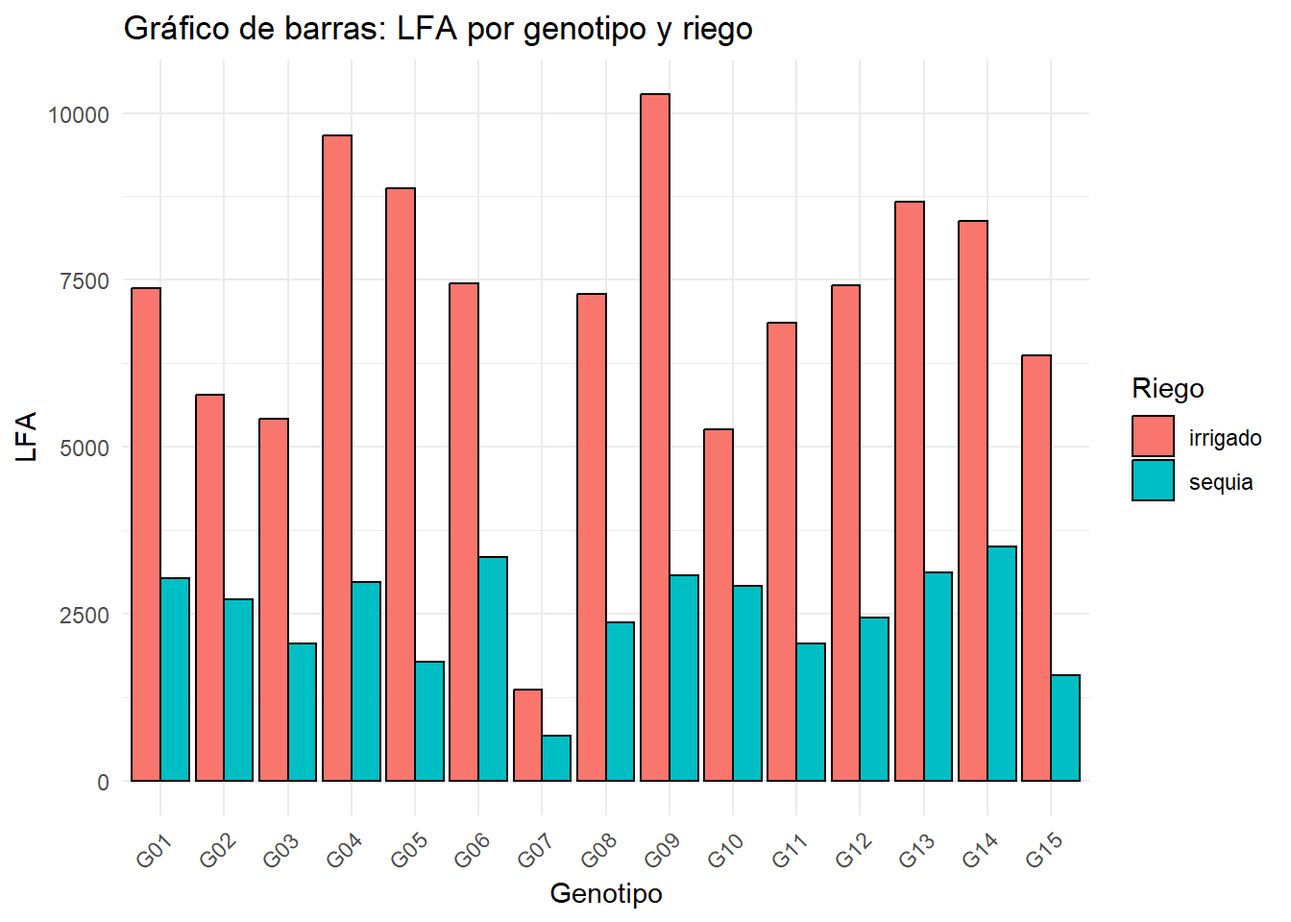
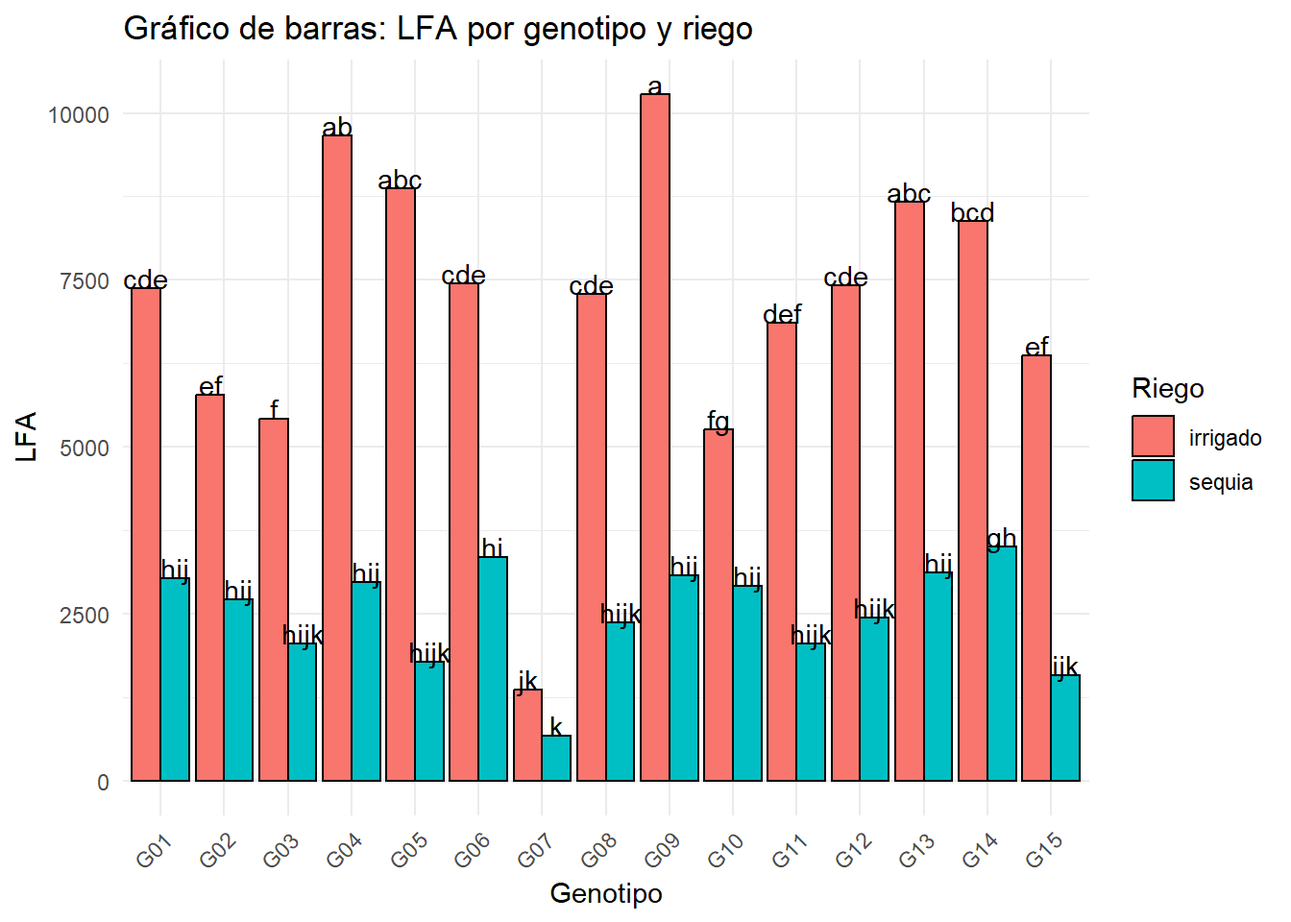
emmean

diff --git a/index.html b/index.html
@@ -129,7 +129,11 @@ window.Quarto = {
   <li><a href="#modelo-lineal-hi" id="toc-modelo-lineal-hi" class="nav-link" data-scroll-target="#modelo-lineal-hi"><span class="header-section-number">4.3</span> Modelo lineal: hi</a></li>
   <li><a href="#modelo-lineal-mixto-para-lfa" id="toc-modelo-lineal-mixto-para-lfa" class="nav-link" data-scroll-target="#modelo-lineal-mixto-para-lfa"><span class="header-section-number">4.4</span> Modelo lineal mixto para lfa</a></li>
   </ul></li>
-  <li><a href="#comparación-de-medias" id="toc-comparación-de-medias" class="nav-link" data-scroll-target="#comparación-de-medias"><span class="header-section-number">5</span> Comparación de medias</a></li>
+  <li><a href="#agricolae-comparación-de-medias" id="toc-agricolae-comparación-de-medias" class="nav-link" data-scroll-target="#agricolae-comparación-de-medias"><span class="header-section-number">5</span> Agricolae Comparación de medias</a></li>
+  <li><a href="#enmeans-comparación-de-medias" id="toc-enmeans-comparación-de-medias" class="nav-link" data-scroll-target="#enmeans-comparación-de-medias"><span class="header-section-number">6</span> enmeans: Comparación de medias</a>
+  <ul class="collapse">
+  <li><a href="#gráfico" id="toc-gráfico" class="nav-link" data-scroll-target="#gráfico"><span class="header-section-number">6.1</span> gráfico</a></li>
+  </ul></li>
   </ul>
 </nav>
 </div>
@@ -736,8 +740,8 @@ window.Quarto = {
 </div>
 </section>
 </section>
-<section id="comparación-de-medias" class="level1" data-number="5">
-<h1 data-number="5"><span class="header-section-number">5</span> Comparación de medias</h1>
+<section id="agricolae-comparación-de-medias" class="level1" data-number="5">
+<h1 data-number="5"><span class="header-section-number">5</span> Agricolae Comparación de medias</h1>
 <div class="cell" data-layout-align="center">
 <div class="sourceCode cell-code" id="cb15"><pre class="sourceCode r code-with-copy"><code class="sourceCode r"><span id="cb15-1"><a href="#cb15-1" aria-hidden="true" tabindex="-1"></a></span>
 <span id="cb15-2"><a href="#cb15-2" aria-hidden="true" tabindex="-1"></a>modelo <span class="ot">&lt;-</span> <span class="fu">lm</span>(<span class="at">formula =</span> lfa <span class="sc">~</span> bloque <span class="sc">+</span> riego <span class="sc">+</span> geno <span class="sc">+</span> riego<span class="sc">*</span>geno</span>
@@ -1036,13 +1040,15 @@ window.Quarto = {
 <span id="cb16-154"><a href="#cb16-154" aria-hidden="true" tabindex="-1"></a><span class="do">##  $ groups: chr  "a" "ab" "abc" "abc" ...</span></span></code><button title="Copy to Clipboard" class="code-copy-button"><i class="bi"></i></button></pre></div>
 </div>
 <div class="cell" data-layout-align="center">
-<div class="sourceCode cell-code" id="cb17"><pre class="sourceCode r code-with-copy"><code class="sourceCode r"><span id="cb17-1"><a href="#cb17-1" aria-hidden="true" tabindex="-1"></a></span>
-<span id="cb17-2"><a href="#cb17-2" aria-hidden="true" tabindex="-1"></a><span class="fu">ggplot</span>(grupos, <span class="fu">aes</span>(<span class="at">x =</span> geno, <span class="at">y =</span> lfa, <span class="at">fill =</span> riego)) <span class="sc">+</span></span>
-<span id="cb17-3"><a href="#cb17-3" aria-hidden="true" tabindex="-1"></a>  <span class="fu">geom_bar</span>(<span class="at">stat =</span> <span class="st">"identity"</span>, <span class="at">position =</span> <span class="st">"dodge"</span>, <span class="at">color =</span> <span class="st">"black"</span>) <span class="sc">+</span></span>
-<span id="cb17-4"><a href="#cb17-4" aria-hidden="true" tabindex="-1"></a>  <span class="fu">labs</span>(<span class="at">x =</span> <span class="st">"Genotipo"</span>, <span class="at">y =</span> <span class="st">"LFA"</span>, <span class="at">fill =</span> <span class="st">"Riego"</span>) <span class="sc">+</span></span>
-<span id="cb17-5"><a href="#cb17-5" aria-hidden="true" tabindex="-1"></a>  <span class="fu">theme_minimal</span>() <span class="sc">+</span></span>
-<span id="cb17-6"><a href="#cb17-6" aria-hidden="true" tabindex="-1"></a>  <span class="fu">theme</span>(<span class="at">axis.text.x =</span> <span class="fu">element_text</span>(<span class="at">angle =</span> <span class="dv">45</span>, <span class="at">hjust =</span> <span class="dv">1</span>)) <span class="sc">+</span></span>
-<span id="cb17-7"><a href="#cb17-7" aria-hidden="true" tabindex="-1"></a>  <span class="fu">ggtitle</span>(<span class="st">"Gráfico de barras: LFA por genotipo y riego"</span>)</span></code><button title="Copy to Clipboard" class="code-copy-button"><i class="bi"></i></button></pre></div>
+<div class="sourceCode cell-code" id="cb17"><pre class="sourceCode r code-with-copy"><code class="sourceCode r"><span id="cb17-1"><a href="#cb17-1" aria-hidden="true" tabindex="-1"></a><span class="fu">ggplot</span>(grupos, <span class="fu">aes</span>(<span class="at">x =</span> geno, <span class="at">y =</span> lfa, <span class="at">fill =</span> riego)) <span class="sc">+</span></span>
+<span id="cb17-2"><a href="#cb17-2" aria-hidden="true" tabindex="-1"></a>  <span class="fu">geom_bar</span>(<span class="at">stat =</span> <span class="st">"identity"</span>, <span class="at">position =</span> <span class="st">"dodge"</span>, <span class="at">color =</span> <span class="st">"black"</span>) <span class="sc">+</span></span>
+<span id="cb17-3"><a href="#cb17-3" aria-hidden="true" tabindex="-1"></a>  <span class="fu">labs</span>(<span class="at">x =</span> <span class="st">"Genotipo"</span>, <span class="at">y =</span> <span class="st">"LFA"</span>, <span class="at">fill =</span> <span class="st">"Riego"</span>) <span class="sc">+</span></span>
+<span id="cb17-4"><a href="#cb17-4" aria-hidden="true" tabindex="-1"></a>  <span class="fu">theme_minimal</span>() <span class="sc">+</span></span>
+<span id="cb17-5"><a href="#cb17-5" aria-hidden="true" tabindex="-1"></a>  <span class="fu">theme</span>(<span class="at">axis.text.x =</span> <span class="fu">element_text</span>(<span class="at">angle =</span> <span class="dv">45</span>, <span class="at">hjust =</span> <span class="dv">1</span>)) <span class="sc">+</span></span>
+<span id="cb17-6"><a href="#cb17-6" aria-hidden="true" tabindex="-1"></a>  <span class="fu">ggtitle</span>(<span class="st">"Gráfico de barras: LFA por genotipo y riego"</span>) <span class="sc">+</span></span>
+<span id="cb17-7"><a href="#cb17-7" aria-hidden="true" tabindex="-1"></a>  <span class="fu">geom_text</span>(<span class="fu">aes</span>(<span class="at">label =</span> groups, <span class="at">y =</span> lfa <span class="sc">+</span> <span class="fl">0.05</span>), </span>
+<span id="cb17-8"><a href="#cb17-8" aria-hidden="true" tabindex="-1"></a>            <span class="at">position =</span> <span class="fu">position_dodge</span>(<span class="at">width =</span> <span class="fl">0.9</span>), </span>
+<span id="cb17-9"><a href="#cb17-9" aria-hidden="true" tabindex="-1"></a>            <span class="at">vjust =</span> <span class="dv">0</span>)</span></code><button title="Copy to Clipboard" class="code-copy-button"><i class="bi"></i></button></pre></div>
 <div class="cell-output-display">
 <div class="quarto-figure quarto-figure-center">
 <figure class="figure">
@@ -1051,6 +1057,229 @@ window.Quarto = {
 </div>
 </div>
 </div>
+</section>
+<section id="enmeans-comparación-de-medias" class="level1" data-number="6">
+<h1 data-number="6"><span class="header-section-number">6</span> enmeans: Comparación de medias</h1>
+<div class="cell" data-layout-align="center">
+<div class="sourceCode cell-code" id="cb18"><pre class="sourceCode r code-with-copy"><code class="sourceCode r"><span id="cb18-1"><a href="#cb18-1" aria-hidden="true" tabindex="-1"></a>modelo <span class="ot">&lt;-</span> lme4<span class="sc">::</span><span class="fu">lmer</span>(hi <span class="sc">~</span> (<span class="dv">1</span><span class="sc">|</span>bloque) <span class="sc">+</span> geno<span class="sc">*</span>riego</span>
+<span id="cb18-2"><a href="#cb18-2" aria-hidden="true" tabindex="-1"></a>                     , <span class="at">data =</span> fb)</span>
+<span id="cb18-3"><a href="#cb18-3" aria-hidden="true" tabindex="-1"></a><span class="fu">anova</span>(modelo)</span>
+<span id="cb18-4"><a href="#cb18-4" aria-hidden="true" tabindex="-1"></a><span class="do">## Analysis of Variance Table</span></span>
+<span id="cb18-5"><a href="#cb18-5" aria-hidden="true" tabindex="-1"></a><span class="do">##            npar  Sum Sq  Mean Sq F value</span></span>
+<span id="cb18-6"><a href="#cb18-6" aria-hidden="true" tabindex="-1"></a><span class="do">## geno         14 2.70077 0.192912 59.9161</span></span>
+<span id="cb18-7"><a href="#cb18-7" aria-hidden="true" tabindex="-1"></a><span class="do">## riego         1 0.12176 0.121758 37.8165</span></span>
+<span id="cb18-8"><a href="#cb18-8" aria-hidden="true" tabindex="-1"></a><span class="do">## geno:riego   14 0.07762 0.005544  1.7219</span></span>
+<span id="cb18-9"><a href="#cb18-9" aria-hidden="true" tabindex="-1"></a><span class="fu">source</span>(<span class="st">'https://inkaverse.com/setup.r'</span>)</span>
+<span id="cb18-10"><a href="#cb18-10" aria-hidden="true" tabindex="-1"></a></span>
+<span id="cb18-11"><a href="#cb18-11" aria-hidden="true" tabindex="-1"></a></span>
+<span id="cb18-12"><a href="#cb18-12" aria-hidden="true" tabindex="-1"></a><span class="fu">library</span>(emmeans)</span>
+<span id="cb18-13"><a href="#cb18-13" aria-hidden="true" tabindex="-1"></a><span class="fu">library</span>(multcomp)</span>
+<span id="cb18-14"><a href="#cb18-14" aria-hidden="true" tabindex="-1"></a><span class="fu">library</span>(multcompView)</span>
+<span id="cb18-15"><a href="#cb18-15" aria-hidden="true" tabindex="-1"></a><span class="fu">library</span>(lme4)</span>
+<span id="cb18-16"><a href="#cb18-16" aria-hidden="true" tabindex="-1"></a><span class="fu">library</span>(lmerTest)</span>
+<span id="cb18-17"><a href="#cb18-17" aria-hidden="true" tabindex="-1"></a></span>
+<span id="cb18-18"><a href="#cb18-18" aria-hidden="true" tabindex="-1"></a></span>
+<span id="cb18-19"><a href="#cb18-19" aria-hidden="true" tabindex="-1"></a></span>
+<span id="cb18-20"><a href="#cb18-20" aria-hidden="true" tabindex="-1"></a>cm1 <span class="ot">&lt;-</span> <span class="fu">emmeans</span>(modelo, <span class="sc">~</span> geno <span class="sc">|</span> riego) <span class="sc">%&gt;%</span> </span>
+<span id="cb18-21"><a href="#cb18-21" aria-hidden="true" tabindex="-1"></a>  <span class="fu">cld</span>(<span class="at">Letters =</span> letters, <span class="at">reversed =</span> T)</span>
+<span id="cb18-22"><a href="#cb18-22" aria-hidden="true" tabindex="-1"></a>cm1</span>
+<span id="cb18-23"><a href="#cb18-23" aria-hidden="true" tabindex="-1"></a><span class="do">## riego = irrigado:</span></span>
+<span id="cb18-24"><a href="#cb18-24" aria-hidden="true" tabindex="-1"></a><span class="do">##  geno emmean     SE   df lower.CL upper.CL .group    </span></span>
+<span id="cb18-25"><a href="#cb18-25" aria-hidden="true" tabindex="-1"></a><span class="do">##  G07   0.749 0.0278 65.8   0.6938    0.805  a        </span></span>
+<span id="cb18-26"><a href="#cb18-26" aria-hidden="true" tabindex="-1"></a><span class="do">##  G15   0.680 0.0278 65.8   0.6248    0.736  ab       </span></span>
+<span id="cb18-27"><a href="#cb18-27" aria-hidden="true" tabindex="-1"></a><span class="do">##  G11   0.645 0.0278 65.8   0.5898    0.701  abc      </span></span>
+<span id="cb18-28"><a href="#cb18-28" aria-hidden="true" tabindex="-1"></a><span class="do">##  G03   0.625 0.0278 65.8   0.5695    0.681  abc      </span></span>
+<span id="cb18-29"><a href="#cb18-29" aria-hidden="true" tabindex="-1"></a><span class="do">##  G09   0.605 0.0278 65.8   0.5490    0.660   bcd     </span></span>
+<span id="cb18-30"><a href="#cb18-30" aria-hidden="true" tabindex="-1"></a><span class="do">##  G05   0.580 0.0278 65.8   0.5249    0.636   bcde    </span></span>
+<span id="cb18-31"><a href="#cb18-31" aria-hidden="true" tabindex="-1"></a><span class="do">##  G10   0.555 0.0278 65.8   0.4993    0.610    cdef   </span></span>
+<span id="cb18-32"><a href="#cb18-32" aria-hidden="true" tabindex="-1"></a><span class="do">##  G04   0.546 0.0278 65.8   0.4903    0.601    cdefg  </span></span>
+<span id="cb18-33"><a href="#cb18-33" aria-hidden="true" tabindex="-1"></a><span class="do">##  G12   0.498 0.0278 65.8   0.4427    0.554     defg  </span></span>
+<span id="cb18-34"><a href="#cb18-34" aria-hidden="true" tabindex="-1"></a><span class="do">##  G01   0.472 0.0278 65.8   0.4168    0.528      efgh </span></span>
+<span id="cb18-35"><a href="#cb18-35" aria-hidden="true" tabindex="-1"></a><span class="do">##  G02   0.455 0.0278 65.8   0.3995    0.511       fgh </span></span>
+<span id="cb18-36"><a href="#cb18-36" aria-hidden="true" tabindex="-1"></a><span class="do">##  G14   0.436 0.0278 65.8   0.3807    0.492       fgh </span></span>
+<span id="cb18-37"><a href="#cb18-37" aria-hidden="true" tabindex="-1"></a><span class="do">##  G08   0.429 0.0278 65.8   0.3735    0.485        gh </span></span>
+<span id="cb18-38"><a href="#cb18-38" aria-hidden="true" tabindex="-1"></a><span class="do">##  G13   0.350 0.0278 65.8   0.2946    0.406         h </span></span>
+<span id="cb18-39"><a href="#cb18-39" aria-hidden="true" tabindex="-1"></a><span class="do">##  G06   0.221 0.0278 65.8   0.1653    0.276          i</span></span>
+<span id="cb18-40"><a href="#cb18-40" aria-hidden="true" tabindex="-1"></a><span class="do">## </span></span>
+<span id="cb18-41"><a href="#cb18-41" aria-hidden="true" tabindex="-1"></a><span class="do">## riego = sequia:</span></span>
+<span id="cb18-42"><a href="#cb18-42" aria-hidden="true" tabindex="-1"></a><span class="do">##  geno emmean     SE   df lower.CL upper.CL .group    </span></span>
+<span id="cb18-43"><a href="#cb18-43" aria-hidden="true" tabindex="-1"></a><span class="do">##  G07   0.689 0.0278 65.8   0.6335    0.745  a        </span></span>
+<span id="cb18-44"><a href="#cb18-44" aria-hidden="true" tabindex="-1"></a><span class="do">##  G11   0.665 0.0278 65.8   0.6097    0.721  a        </span></span>
+<span id="cb18-45"><a href="#cb18-45" aria-hidden="true" tabindex="-1"></a><span class="do">##  G03   0.593 0.0278 65.8   0.5371    0.648  ab       </span></span>
+<span id="cb18-46"><a href="#cb18-46" aria-hidden="true" tabindex="-1"></a><span class="do">##  G15   0.590 0.0278 65.8   0.5340    0.645  ab       </span></span>
+<span id="cb18-47"><a href="#cb18-47" aria-hidden="true" tabindex="-1"></a><span class="do">##  G10   0.582 0.0278 65.8   0.5261    0.637  ab       </span></span>
+<span id="cb18-48"><a href="#cb18-48" aria-hidden="true" tabindex="-1"></a><span class="do">##  G09   0.511 0.0278 65.8   0.4556    0.567   bc      </span></span>
+<span id="cb18-49"><a href="#cb18-49" aria-hidden="true" tabindex="-1"></a><span class="do">##  G04   0.486 0.0278 65.8   0.4302    0.541   bc      </span></span>
+<span id="cb18-50"><a href="#cb18-50" aria-hidden="true" tabindex="-1"></a><span class="do">##  G05   0.446 0.0278 65.8   0.3908    0.502    cd     </span></span>
+<span id="cb18-51"><a href="#cb18-51" aria-hidden="true" tabindex="-1"></a><span class="do">##  G01   0.441 0.0278 65.8   0.3852    0.496    cd     </span></span>
+<span id="cb18-52"><a href="#cb18-52" aria-hidden="true" tabindex="-1"></a><span class="do">##  G02   0.402 0.0278 65.8   0.3467    0.458    cde    </span></span>
+<span id="cb18-53"><a href="#cb18-53" aria-hidden="true" tabindex="-1"></a><span class="do">##  G12   0.402 0.0278 65.8   0.3467    0.458    cde    </span></span>
+<span id="cb18-54"><a href="#cb18-54" aria-hidden="true" tabindex="-1"></a><span class="do">##  G14   0.389 0.0278 65.8   0.3335    0.445    cde    </span></span>
+<span id="cb18-55"><a href="#cb18-55" aria-hidden="true" tabindex="-1"></a><span class="do">##  G13   0.346 0.0278 65.8   0.2904    0.402     de    </span></span>
+<span id="cb18-56"><a href="#cb18-56" aria-hidden="true" tabindex="-1"></a><span class="do">##  G08   0.315 0.0278 65.8   0.2598    0.371      e    </span></span>
+<span id="cb18-57"><a href="#cb18-57" aria-hidden="true" tabindex="-1"></a><span class="do">##  G06   0.136 0.0278 65.8   0.0807    0.192       f   </span></span>
+<span id="cb18-58"><a href="#cb18-58" aria-hidden="true" tabindex="-1"></a><span class="do">## </span></span>
+<span id="cb18-59"><a href="#cb18-59" aria-hidden="true" tabindex="-1"></a><span class="do">## Degrees-of-freedom method: kenward-roger </span></span>
+<span id="cb18-60"><a href="#cb18-60" aria-hidden="true" tabindex="-1"></a><span class="do">## Confidence level used: 0.95 </span></span>
+<span id="cb18-61"><a href="#cb18-61" aria-hidden="true" tabindex="-1"></a><span class="do">## P value adjustment: tukey method for comparing a family of 15 estimates </span></span>
+<span id="cb18-62"><a href="#cb18-62" aria-hidden="true" tabindex="-1"></a><span class="do">## significance level used: alpha = 0.05 </span></span>
+<span id="cb18-63"><a href="#cb18-63" aria-hidden="true" tabindex="-1"></a><span class="do">## </span><span class="al">NOTE</span><span class="do">: If two or more means share the same grouping symbol,</span></span>
+<span id="cb18-64"><a href="#cb18-64" aria-hidden="true" tabindex="-1"></a><span class="do">##       then we cannot show them to be different.</span></span>
+<span id="cb18-65"><a href="#cb18-65" aria-hidden="true" tabindex="-1"></a><span class="do">##       But we also did not show them to be the same.</span></span>
+<span id="cb18-66"><a href="#cb18-66" aria-hidden="true" tabindex="-1"></a></span>
+<span id="cb18-67"><a href="#cb18-67" aria-hidden="true" tabindex="-1"></a></span>
+<span id="cb18-68"><a href="#cb18-68" aria-hidden="true" tabindex="-1"></a>cm2 <span class="ot">&lt;-</span> <span class="fu">emmeans</span>(modelo, <span class="sc">~</span> riego <span class="sc">|</span> geno) <span class="sc">%&gt;%</span> </span>
+<span id="cb18-69"><a href="#cb18-69" aria-hidden="true" tabindex="-1"></a>  <span class="fu">cld</span>(<span class="at">Letters =</span> letters, <span class="at">reversed =</span> T)</span>
+<span id="cb18-70"><a href="#cb18-70" aria-hidden="true" tabindex="-1"></a>cm2</span>
+<span id="cb18-71"><a href="#cb18-71" aria-hidden="true" tabindex="-1"></a><span class="do">## geno = G01:</span></span>
+<span id="cb18-72"><a href="#cb18-72" aria-hidden="true" tabindex="-1"></a><span class="do">##  riego    emmean     SE   df lower.CL upper.CL .group</span></span>
+<span id="cb18-73"><a href="#cb18-73" aria-hidden="true" tabindex="-1"></a><span class="do">##  irrigado  0.472 0.0278 65.8   0.4168    0.528  a    </span></span>
+<span id="cb18-74"><a href="#cb18-74" aria-hidden="true" tabindex="-1"></a><span class="do">##  sequia    0.441 0.0278 65.8   0.3852    0.496  a    </span></span>
+<span id="cb18-75"><a href="#cb18-75" aria-hidden="true" tabindex="-1"></a><span class="do">## </span></span>
+<span id="cb18-76"><a href="#cb18-76" aria-hidden="true" tabindex="-1"></a><span class="do">## geno = G02:</span></span>
+<span id="cb18-77"><a href="#cb18-77" aria-hidden="true" tabindex="-1"></a><span class="do">##  riego    emmean     SE   df lower.CL upper.CL .group</span></span>
+<span id="cb18-78"><a href="#cb18-78" aria-hidden="true" tabindex="-1"></a><span class="do">##  irrigado  0.455 0.0278 65.8   0.3995    0.511  a    </span></span>
+<span id="cb18-79"><a href="#cb18-79" aria-hidden="true" tabindex="-1"></a><span class="do">##  sequia    0.402 0.0278 65.8   0.3467    0.458  a    </span></span>
+<span id="cb18-80"><a href="#cb18-80" aria-hidden="true" tabindex="-1"></a><span class="do">## </span></span>
+<span id="cb18-81"><a href="#cb18-81" aria-hidden="true" tabindex="-1"></a><span class="do">## geno = G03:</span></span>
+<span id="cb18-82"><a href="#cb18-82" aria-hidden="true" tabindex="-1"></a><span class="do">##  riego    emmean     SE   df lower.CL upper.CL .group</span></span>
+<span id="cb18-83"><a href="#cb18-83" aria-hidden="true" tabindex="-1"></a><span class="do">##  irrigado  0.625 0.0278 65.8   0.5695    0.681  a    </span></span>
+<span id="cb18-84"><a href="#cb18-84" aria-hidden="true" tabindex="-1"></a><span class="do">##  sequia    0.593 0.0278 65.8   0.5371    0.648  a    </span></span>
+<span id="cb18-85"><a href="#cb18-85" aria-hidden="true" tabindex="-1"></a><span class="do">## </span></span>
+<span id="cb18-86"><a href="#cb18-86" aria-hidden="true" tabindex="-1"></a><span class="do">## geno = G04:</span></span>
+<span id="cb18-87"><a href="#cb18-87" aria-hidden="true" tabindex="-1"></a><span class="do">##  riego    emmean     SE   df lower.CL upper.CL .group</span></span>
+<span id="cb18-88"><a href="#cb18-88" aria-hidden="true" tabindex="-1"></a><span class="do">##  irrigado  0.546 0.0278 65.8   0.4903    0.601  a    </span></span>
+<span id="cb18-89"><a href="#cb18-89" aria-hidden="true" tabindex="-1"></a><span class="do">##  sequia    0.486 0.0278 65.8   0.4302    0.541  a    </span></span>
+<span id="cb18-90"><a href="#cb18-90" aria-hidden="true" tabindex="-1"></a><span class="do">## </span></span>
+<span id="cb18-91"><a href="#cb18-91" aria-hidden="true" tabindex="-1"></a><span class="do">## geno = G05:</span></span>
+<span id="cb18-92"><a href="#cb18-92" aria-hidden="true" tabindex="-1"></a><span class="do">##  riego    emmean     SE   df lower.CL upper.CL .group</span></span>
+<span id="cb18-93"><a href="#cb18-93" aria-hidden="true" tabindex="-1"></a><span class="do">##  irrigado  0.580 0.0278 65.8   0.5249    0.636  a    </span></span>
+<span id="cb18-94"><a href="#cb18-94" aria-hidden="true" tabindex="-1"></a><span class="do">##  sequia    0.446 0.0278 65.8   0.3908    0.502   b   </span></span>
+<span id="cb18-95"><a href="#cb18-95" aria-hidden="true" tabindex="-1"></a><span class="do">## </span></span>
+<span id="cb18-96"><a href="#cb18-96" aria-hidden="true" tabindex="-1"></a><span class="do">## geno = G06:</span></span>
+<span id="cb18-97"><a href="#cb18-97" aria-hidden="true" tabindex="-1"></a><span class="do">##  riego    emmean     SE   df lower.CL upper.CL .group</span></span>
+<span id="cb18-98"><a href="#cb18-98" aria-hidden="true" tabindex="-1"></a><span class="do">##  irrigado  0.221 0.0278 65.8   0.1653    0.276  a    </span></span>
+<span id="cb18-99"><a href="#cb18-99" aria-hidden="true" tabindex="-1"></a><span class="do">##  sequia    0.136 0.0278 65.8   0.0807    0.192   b   </span></span>
+<span id="cb18-100"><a href="#cb18-100" aria-hidden="true" tabindex="-1"></a><span class="do">## </span></span>
+<span id="cb18-101"><a href="#cb18-101" aria-hidden="true" tabindex="-1"></a><span class="do">## geno = G07:</span></span>
+<span id="cb18-102"><a href="#cb18-102" aria-hidden="true" tabindex="-1"></a><span class="do">##  riego    emmean     SE   df lower.CL upper.CL .group</span></span>
+<span id="cb18-103"><a href="#cb18-103" aria-hidden="true" tabindex="-1"></a><span class="do">##  irrigado  0.749 0.0278 65.8   0.6938    0.805  a    </span></span>
+<span id="cb18-104"><a href="#cb18-104" aria-hidden="true" tabindex="-1"></a><span class="do">##  sequia    0.689 0.0278 65.8   0.6335    0.745  a    </span></span>
+<span id="cb18-105"><a href="#cb18-105" aria-hidden="true" tabindex="-1"></a><span class="do">## </span></span>
+<span id="cb18-106"><a href="#cb18-106" aria-hidden="true" tabindex="-1"></a><span class="do">## geno = G08:</span></span>
+<span id="cb18-107"><a href="#cb18-107" aria-hidden="true" tabindex="-1"></a><span class="do">##  riego    emmean     SE   df lower.CL upper.CL .group</span></span>
+<span id="cb18-108"><a href="#cb18-108" aria-hidden="true" tabindex="-1"></a><span class="do">##  irrigado  0.429 0.0278 65.8   0.3735    0.485  a    </span></span>
+<span id="cb18-109"><a href="#cb18-109" aria-hidden="true" tabindex="-1"></a><span class="do">##  sequia    0.315 0.0278 65.8   0.2598    0.371   b   </span></span>
+<span id="cb18-110"><a href="#cb18-110" aria-hidden="true" tabindex="-1"></a><span class="do">## </span></span>
+<span id="cb18-111"><a href="#cb18-111" aria-hidden="true" tabindex="-1"></a><span class="do">## geno = G09:</span></span>
+<span id="cb18-112"><a href="#cb18-112" aria-hidden="true" tabindex="-1"></a><span class="do">##  riego    emmean     SE   df lower.CL upper.CL .group</span></span>
+<span id="cb18-113"><a href="#cb18-113" aria-hidden="true" tabindex="-1"></a><span class="do">##  irrigado  0.605 0.0278 65.8   0.5490    0.660  a    </span></span>
+<span id="cb18-114"><a href="#cb18-114" aria-hidden="true" tabindex="-1"></a><span class="do">##  sequia    0.511 0.0278 65.8   0.4556    0.567   b   </span></span>
+<span id="cb18-115"><a href="#cb18-115" aria-hidden="true" tabindex="-1"></a><span class="do">## </span></span>
+<span id="cb18-116"><a href="#cb18-116" aria-hidden="true" tabindex="-1"></a><span class="do">## geno = G10:</span></span>
+<span id="cb18-117"><a href="#cb18-117" aria-hidden="true" tabindex="-1"></a><span class="do">##  riego    emmean     SE   df lower.CL upper.CL .group</span></span>
+<span id="cb18-118"><a href="#cb18-118" aria-hidden="true" tabindex="-1"></a><span class="do">##  sequia    0.582 0.0278 65.8   0.5261    0.637  a    </span></span>
+<span id="cb18-119"><a href="#cb18-119" aria-hidden="true" tabindex="-1"></a><span class="do">##  irrigado  0.555 0.0278 65.8   0.4993    0.610  a    </span></span>
+<span id="cb18-120"><a href="#cb18-120" aria-hidden="true" tabindex="-1"></a><span class="do">## </span></span>
+<span id="cb18-121"><a href="#cb18-121" aria-hidden="true" tabindex="-1"></a><span class="do">## geno = G11:</span></span>
+<span id="cb18-122"><a href="#cb18-122" aria-hidden="true" tabindex="-1"></a><span class="do">##  riego    emmean     SE   df lower.CL upper.CL .group</span></span>
+<span id="cb18-123"><a href="#cb18-123" aria-hidden="true" tabindex="-1"></a><span class="do">##  sequia    0.665 0.0278 65.8   0.6097    0.721  a    </span></span>
+<span id="cb18-124"><a href="#cb18-124" aria-hidden="true" tabindex="-1"></a><span class="do">##  irrigado  0.645 0.0278 65.8   0.5898    0.701  a    </span></span>
+<span id="cb18-125"><a href="#cb18-125" aria-hidden="true" tabindex="-1"></a><span class="do">## </span></span>
+<span id="cb18-126"><a href="#cb18-126" aria-hidden="true" tabindex="-1"></a><span class="do">## geno = G12:</span></span>
+<span id="cb18-127"><a href="#cb18-127" aria-hidden="true" tabindex="-1"></a><span class="do">##  riego    emmean     SE   df lower.CL upper.CL .group</span></span>
+<span id="cb18-128"><a href="#cb18-128" aria-hidden="true" tabindex="-1"></a><span class="do">##  irrigado  0.498 0.0278 65.8   0.4427    0.554  a    </span></span>
+<span id="cb18-129"><a href="#cb18-129" aria-hidden="true" tabindex="-1"></a><span class="do">##  sequia    0.402 0.0278 65.8   0.3467    0.458   b   </span></span>
+<span id="cb18-130"><a href="#cb18-130" aria-hidden="true" tabindex="-1"></a><span class="do">## </span></span>
+<span id="cb18-131"><a href="#cb18-131" aria-hidden="true" tabindex="-1"></a><span class="do">## geno = G13:</span></span>
+<span id="cb18-132"><a href="#cb18-132" aria-hidden="true" tabindex="-1"></a><span class="do">##  riego    emmean     SE   df lower.CL upper.CL .group</span></span>
+<span id="cb18-133"><a href="#cb18-133" aria-hidden="true" tabindex="-1"></a><span class="do">##  irrigado  0.350 0.0278 65.8   0.2946    0.406  a    </span></span>
+<span id="cb18-134"><a href="#cb18-134" aria-hidden="true" tabindex="-1"></a><span class="do">##  sequia    0.346 0.0278 65.8   0.2904    0.402  a    </span></span>
+<span id="cb18-135"><a href="#cb18-135" aria-hidden="true" tabindex="-1"></a><span class="do">## </span></span>
+<span id="cb18-136"><a href="#cb18-136" aria-hidden="true" tabindex="-1"></a><span class="do">## geno = G14:</span></span>
+<span id="cb18-137"><a href="#cb18-137" aria-hidden="true" tabindex="-1"></a><span class="do">##  riego    emmean     SE   df lower.CL upper.CL .group</span></span>
+<span id="cb18-138"><a href="#cb18-138" aria-hidden="true" tabindex="-1"></a><span class="do">##  irrigado  0.436 0.0278 65.8   0.3807    0.492  a    </span></span>
+<span id="cb18-139"><a href="#cb18-139" aria-hidden="true" tabindex="-1"></a><span class="do">##  sequia    0.389 0.0278 65.8   0.3335    0.445  a    </span></span>
+<span id="cb18-140"><a href="#cb18-140" aria-hidden="true" tabindex="-1"></a><span class="do">## </span></span>
+<span id="cb18-141"><a href="#cb18-141" aria-hidden="true" tabindex="-1"></a><span class="do">## geno = G15:</span></span>
+<span id="cb18-142"><a href="#cb18-142" aria-hidden="true" tabindex="-1"></a><span class="do">##  riego    emmean     SE   df lower.CL upper.CL .group</span></span>
+<span id="cb18-143"><a href="#cb18-143" aria-hidden="true" tabindex="-1"></a><span class="do">##  irrigado  0.680 0.0278 65.8   0.6248    0.736  a    </span></span>
+<span id="cb18-144"><a href="#cb18-144" aria-hidden="true" tabindex="-1"></a><span class="do">##  sequia    0.590 0.0278 65.8   0.5340    0.645   b   </span></span>
+<span id="cb18-145"><a href="#cb18-145" aria-hidden="true" tabindex="-1"></a><span class="do">## </span></span>
+<span id="cb18-146"><a href="#cb18-146" aria-hidden="true" tabindex="-1"></a><span class="do">## Degrees-of-freedom method: kenward-roger </span></span>
+<span id="cb18-147"><a href="#cb18-147" aria-hidden="true" tabindex="-1"></a><span class="do">## Confidence level used: 0.95 </span></span>
+<span id="cb18-148"><a href="#cb18-148" aria-hidden="true" tabindex="-1"></a><span class="do">## significance level used: alpha = 0.05 </span></span>
+<span id="cb18-149"><a href="#cb18-149" aria-hidden="true" tabindex="-1"></a><span class="do">## </span><span class="al">NOTE</span><span class="do">: If two or more means share the same grouping symbol,</span></span>
+<span id="cb18-150"><a href="#cb18-150" aria-hidden="true" tabindex="-1"></a><span class="do">##       then we cannot show them to be different.</span></span>
+<span id="cb18-151"><a href="#cb18-151" aria-hidden="true" tabindex="-1"></a><span class="do">##       But we also did not show them to be the same.</span></span>
+<span id="cb18-152"><a href="#cb18-152" aria-hidden="true" tabindex="-1"></a></span>
+<span id="cb18-153"><a href="#cb18-153" aria-hidden="true" tabindex="-1"></a>cm3 <span class="ot">&lt;-</span> <span class="fu">emmeans</span>(modelo, <span class="sc">~</span> riego <span class="sc">*</span> geno) <span class="sc">%&gt;%</span> </span>
+<span id="cb18-154"><a href="#cb18-154" aria-hidden="true" tabindex="-1"></a>  <span class="fu">cld</span>(<span class="at">Letters =</span> letters, <span class="at">reversed =</span> T)</span>
+<span id="cb18-155"><a href="#cb18-155" aria-hidden="true" tabindex="-1"></a>cm3</span>
+<span id="cb18-156"><a href="#cb18-156" aria-hidden="true" tabindex="-1"></a><span class="do">##  riego    geno emmean     SE   df lower.CL upper.CL .group          </span></span>
+<span id="cb18-157"><a href="#cb18-157" aria-hidden="true" tabindex="-1"></a><span class="do">##  irrigado G07   0.749 0.0278 65.8   0.6938    0.805  a              </span></span>
+<span id="cb18-158"><a href="#cb18-158" aria-hidden="true" tabindex="-1"></a><span class="do">##  sequia   G07   0.689 0.0278 65.8   0.6335    0.745  ab             </span></span>
+<span id="cb18-159"><a href="#cb18-159" aria-hidden="true" tabindex="-1"></a><span class="do">##  irrigado G15   0.680 0.0278 65.8   0.6248    0.736  abc            </span></span>
+<span id="cb18-160"><a href="#cb18-160" aria-hidden="true" tabindex="-1"></a><span class="do">##  sequia   G11   0.665 0.0278 65.8   0.6097    0.721  abc            </span></span>
+<span id="cb18-161"><a href="#cb18-161" aria-hidden="true" tabindex="-1"></a><span class="do">##  irrigado G11   0.645 0.0278 65.8   0.5898    0.701  abcd           </span></span>
+<span id="cb18-162"><a href="#cb18-162" aria-hidden="true" tabindex="-1"></a><span class="do">##  irrigado G03   0.625 0.0278 65.8   0.5695    0.681  abcde          </span></span>
+<span id="cb18-163"><a href="#cb18-163" aria-hidden="true" tabindex="-1"></a><span class="do">##  irrigado G09   0.605 0.0278 65.8   0.5490    0.660   bcdef         </span></span>
+<span id="cb18-164"><a href="#cb18-164" aria-hidden="true" tabindex="-1"></a><span class="do">##  sequia   G03   0.593 0.0278 65.8   0.5371    0.648   bcdefg        </span></span>
+<span id="cb18-165"><a href="#cb18-165" aria-hidden="true" tabindex="-1"></a><span class="do">##  sequia   G15   0.590 0.0278 65.8   0.5340    0.645   bcdefg        </span></span>
+<span id="cb18-166"><a href="#cb18-166" aria-hidden="true" tabindex="-1"></a><span class="do">##  sequia   G10   0.582 0.0278 65.8   0.5261    0.637   bcdefgh       </span></span>
+<span id="cb18-167"><a href="#cb18-167" aria-hidden="true" tabindex="-1"></a><span class="do">##  irrigado G05   0.580 0.0278 65.8   0.5249    0.636   bcdefgh       </span></span>
+<span id="cb18-168"><a href="#cb18-168" aria-hidden="true" tabindex="-1"></a><span class="do">##  irrigado G10   0.555 0.0278 65.8   0.4993    0.610   bcdefghi      </span></span>
+<span id="cb18-169"><a href="#cb18-169" aria-hidden="true" tabindex="-1"></a><span class="do">##  irrigado G04   0.546 0.0278 65.8   0.4903    0.601    cdefghi      </span></span>
+<span id="cb18-170"><a href="#cb18-170" aria-hidden="true" tabindex="-1"></a><span class="do">##  sequia   G09   0.511 0.0278 65.8   0.4556    0.567     defghij     </span></span>
+<span id="cb18-171"><a href="#cb18-171" aria-hidden="true" tabindex="-1"></a><span class="do">##  irrigado G12   0.498 0.0278 65.8   0.4427    0.554      efghij     </span></span>
+<span id="cb18-172"><a href="#cb18-172" aria-hidden="true" tabindex="-1"></a><span class="do">##  sequia   G04   0.486 0.0278 65.8   0.4302    0.541       fghijk    </span></span>
+<span id="cb18-173"><a href="#cb18-173" aria-hidden="true" tabindex="-1"></a><span class="do">##  irrigado G01   0.472 0.0278 65.8   0.4168    0.528       fghijkl   </span></span>
+<span id="cb18-174"><a href="#cb18-174" aria-hidden="true" tabindex="-1"></a><span class="do">##  irrigado G02   0.455 0.0278 65.8   0.3995    0.511        ghijkl   </span></span>
+<span id="cb18-175"><a href="#cb18-175" aria-hidden="true" tabindex="-1"></a><span class="do">##  sequia   G05   0.446 0.0278 65.8   0.3908    0.502         hijklm  </span></span>
+<span id="cb18-176"><a href="#cb18-176" aria-hidden="true" tabindex="-1"></a><span class="do">##  sequia   G01   0.441 0.0278 65.8   0.3852    0.496          ijklm  </span></span>
+<span id="cb18-177"><a href="#cb18-177" aria-hidden="true" tabindex="-1"></a><span class="do">##  irrigado G14   0.436 0.0278 65.8   0.3807    0.492          ijklm  </span></span>
+<span id="cb18-178"><a href="#cb18-178" aria-hidden="true" tabindex="-1"></a><span class="do">##  irrigado G08   0.429 0.0278 65.8   0.3735    0.485          ijklm  </span></span>
+<span id="cb18-179"><a href="#cb18-179" aria-hidden="true" tabindex="-1"></a><span class="do">##  sequia   G02   0.402 0.0278 65.8   0.3467    0.458           jklm  </span></span>
+<span id="cb18-180"><a href="#cb18-180" aria-hidden="true" tabindex="-1"></a><span class="do">##  sequia   G12   0.402 0.0278 65.8   0.3467    0.458           jklm  </span></span>
+<span id="cb18-181"><a href="#cb18-181" aria-hidden="true" tabindex="-1"></a><span class="do">##  sequia   G14   0.389 0.0278 65.8   0.3335    0.445           jklm  </span></span>
+<span id="cb18-182"><a href="#cb18-182" aria-hidden="true" tabindex="-1"></a><span class="do">##  irrigado G13   0.350 0.0278 65.8   0.2946    0.406            klmn </span></span>
+<span id="cb18-183"><a href="#cb18-183" aria-hidden="true" tabindex="-1"></a><span class="do">##  sequia   G13   0.346 0.0278 65.8   0.2904    0.402             lmn </span></span>
+<span id="cb18-184"><a href="#cb18-184" aria-hidden="true" tabindex="-1"></a><span class="do">##  sequia   G08   0.315 0.0278 65.8   0.2598    0.371              mn </span></span>
+<span id="cb18-185"><a href="#cb18-185" aria-hidden="true" tabindex="-1"></a><span class="do">##  irrigado G06   0.221 0.0278 65.8   0.1653    0.276               no</span></span>
+<span id="cb18-186"><a href="#cb18-186" aria-hidden="true" tabindex="-1"></a><span class="do">##  sequia   G06   0.136 0.0278 65.8   0.0807    0.192                o</span></span>
+<span id="cb18-187"><a href="#cb18-187" aria-hidden="true" tabindex="-1"></a><span class="do">## </span></span>
+<span id="cb18-188"><a href="#cb18-188" aria-hidden="true" tabindex="-1"></a><span class="do">## Degrees-of-freedom method: kenward-roger </span></span>
+<span id="cb18-189"><a href="#cb18-189" aria-hidden="true" tabindex="-1"></a><span class="do">## Confidence level used: 0.95 </span></span>
+<span id="cb18-190"><a href="#cb18-190" aria-hidden="true" tabindex="-1"></a><span class="do">## P value adjustment: tukey method for comparing a family of 30 estimates </span></span>
+<span id="cb18-191"><a href="#cb18-191" aria-hidden="true" tabindex="-1"></a><span class="do">## significance level used: alpha = 0.05 </span></span>
+<span id="cb18-192"><a href="#cb18-192" aria-hidden="true" tabindex="-1"></a><span class="do">## </span><span class="al">NOTE</span><span class="do">: If two or more means share the same grouping symbol,</span></span>
+<span id="cb18-193"><a href="#cb18-193" aria-hidden="true" tabindex="-1"></a><span class="do">##       then we cannot show them to be different.</span></span>
+<span id="cb18-194"><a href="#cb18-194" aria-hidden="true" tabindex="-1"></a><span class="do">##       But we also did not show them to be the same.</span></span></code><button title="Copy to Clipboard" class="code-copy-button"><i class="bi"></i></button></pre></div>
+</div>
+<section id="gráfico" class="level2" data-number="6.1">
+<h2 data-number="6.1" class="anchored" data-anchor-id="gráfico"><span class="header-section-number">6.1</span> gráfico</h2>
+<div class="cell" data-layout-align="center">
+<div class="sourceCode cell-code" id="cb19"><pre class="sourceCode r code-with-copy"><code class="sourceCode r"><span id="cb19-1"><a href="#cb19-1" aria-hidden="true" tabindex="-1"></a>dtcm <span class="ot">&lt;-</span> <span class="fu">as.data.frame</span>(cm2) <span class="sc">%&gt;%</span> </span>
+<span id="cb19-2"><a href="#cb19-2" aria-hidden="true" tabindex="-1"></a>  <span class="fu">rename</span>(<span class="at">sig =</span> <span class="st">".group"</span>)</span>
+<span id="cb19-3"><a href="#cb19-3" aria-hidden="true" tabindex="-1"></a></span>
+<span id="cb19-4"><a href="#cb19-4" aria-hidden="true" tabindex="-1"></a><span class="fu">ggplot</span>(dtcm, <span class="fu">aes</span>(<span class="at">x =</span> geno, <span class="at">y =</span> emmean, <span class="at">fill =</span> riego)) <span class="sc">+</span></span>
+<span id="cb19-5"><a href="#cb19-5" aria-hidden="true" tabindex="-1"></a>  <span class="fu">geom_bar</span>(<span class="at">stat =</span> <span class="st">"identity"</span>, <span class="at">position =</span> <span class="st">"dodge"</span>, <span class="at">color =</span> <span class="st">"black"</span>) <span class="sc">+</span></span>
+<span id="cb19-6"><a href="#cb19-6" aria-hidden="true" tabindex="-1"></a>  <span class="fu">geom_text</span>(<span class="fu">aes</span>(<span class="at">label =</span> sig, <span class="at">y =</span> emmean<span class="sc">*</span><span class="dv">1</span><span class="sc">*</span><span class="dv">1</span>),</span>
+<span id="cb19-7"><a href="#cb19-7" aria-hidden="true" tabindex="-1"></a>            <span class="at">position =</span> <span class="fu">position_dodge</span>(<span class="at">width =</span> <span class="fl">0.9</span>),</span>
+<span id="cb19-8"><a href="#cb19-8" aria-hidden="true" tabindex="-1"></a>            <span class="at">vjust =</span> <span class="dv">0</span>) <span class="sc">+</span></span>
+<span id="cb19-9"><a href="#cb19-9" aria-hidden="true" tabindex="-1"></a>  <span class="fu">labs</span>(<span class="at">x =</span> <span class="st">"Genotipo"</span>, <span class="at">y =</span> <span class="st">"HI"</span>, <span class="at">fill =</span> <span class="st">"Riego"</span>) <span class="sc">+</span></span>
+<span id="cb19-10"><a href="#cb19-10" aria-hidden="true" tabindex="-1"></a>  <span class="fu">theme_minimal</span>() <span class="sc">+</span></span>
+<span id="cb19-11"><a href="#cb19-11" aria-hidden="true" tabindex="-1"></a>  <span class="fu">theme</span>(<span class="at">axis.text.x =</span> <span class="fu">element_text</span>(<span class="at">angle =</span> <span class="dv">45</span>, <span class="at">hjust =</span> <span class="dv">1</span>)) <span class="sc">+</span></span>
+<span id="cb19-12"><a href="#cb19-12" aria-hidden="true" tabindex="-1"></a>  <span class="fu">ggtitle</span>(<span class="st">"Gráfico de barras: LFA por genotipo y riego"</span>)</span></code><button title="Copy to Clipboard" class="code-copy-button"><i class="bi"></i></button></pre></div>
+<div class="cell-output-display">
+<div class="quarto-figure quarto-figure-center">
+<figure class="figure">
+<p><img src="como-hacer-tu-pagina-web_files/figure-html/unnamed-chunk-10-1.png" class="img-fluid quarto-figure quarto-figure-center figure-img" style="width:98.0%"></p>
+</figure>
+</div>
+</div>
+</div>
+</section>
 </section>
 
 </main>
